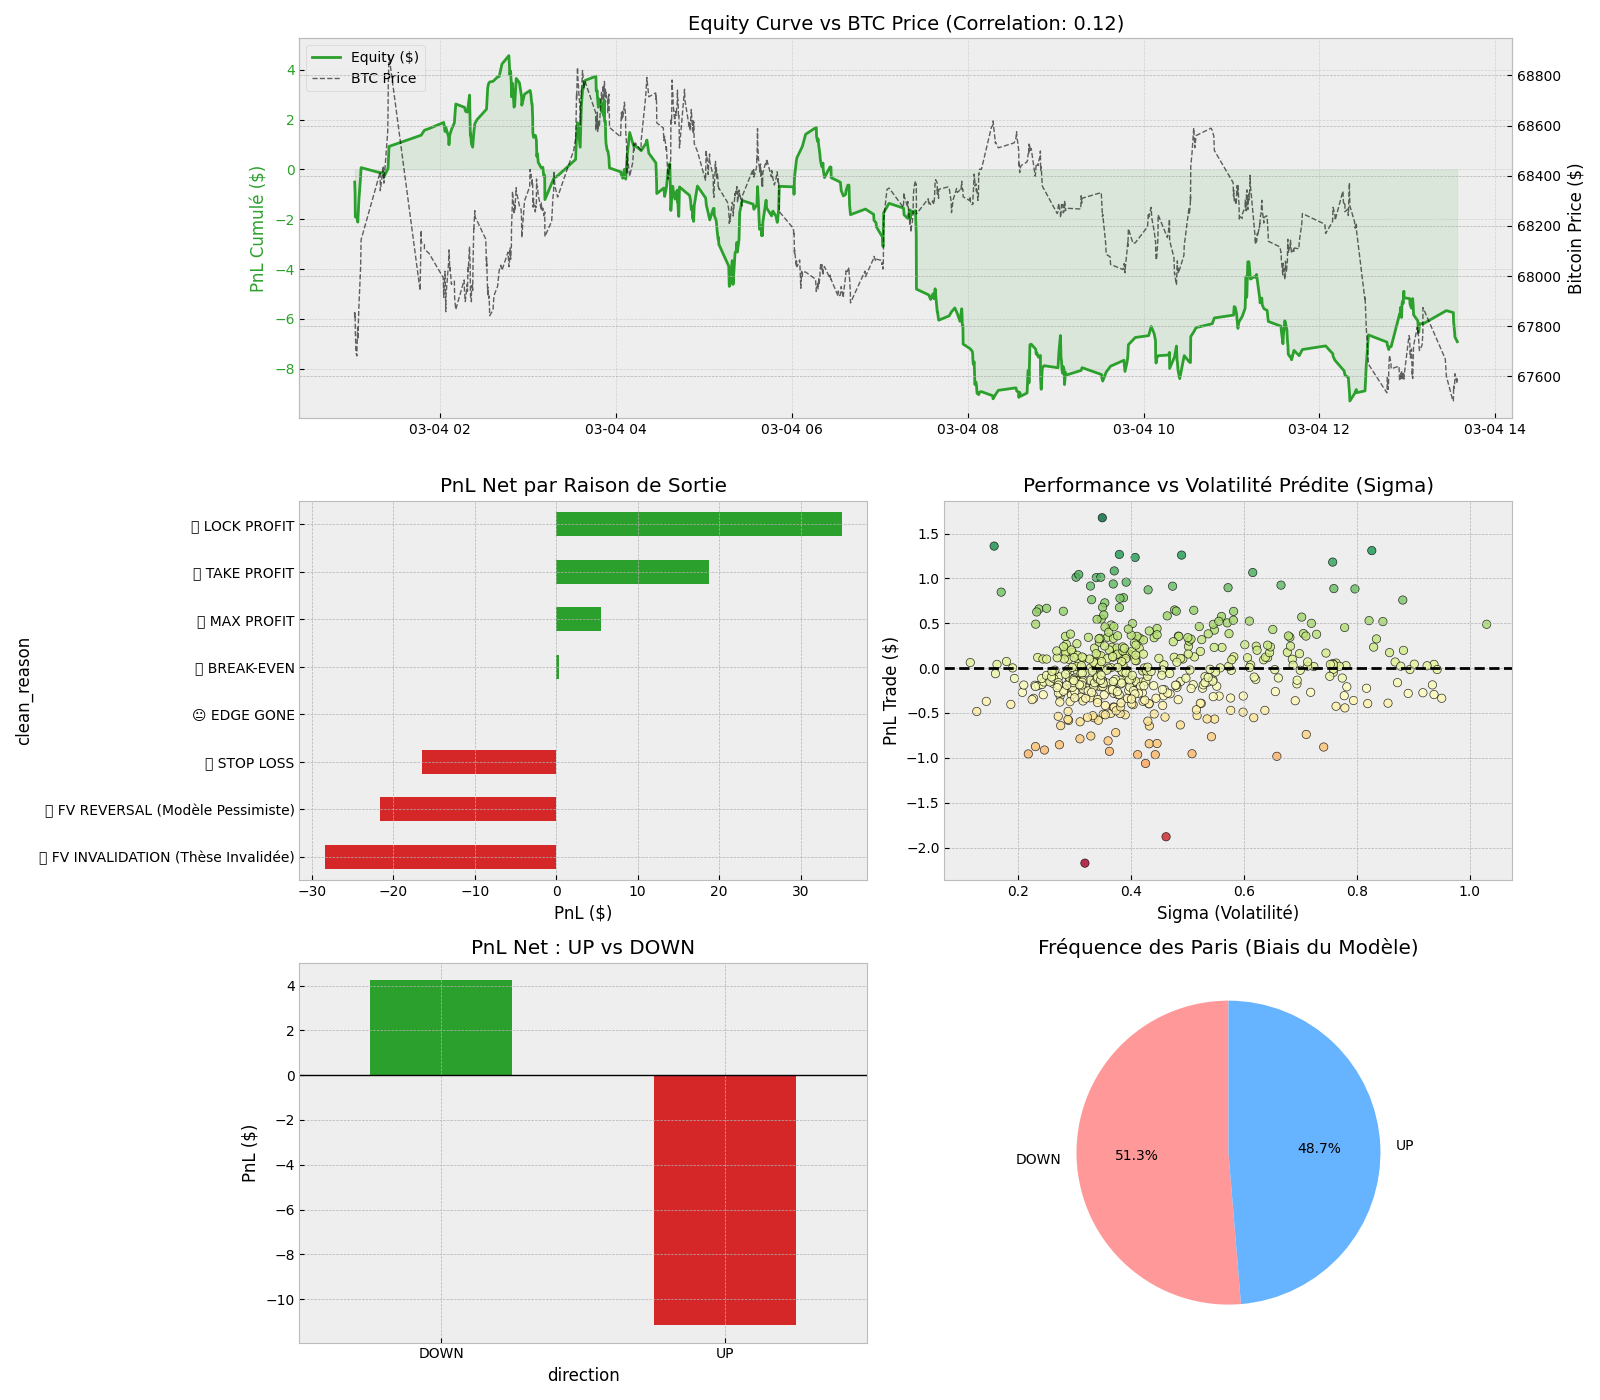
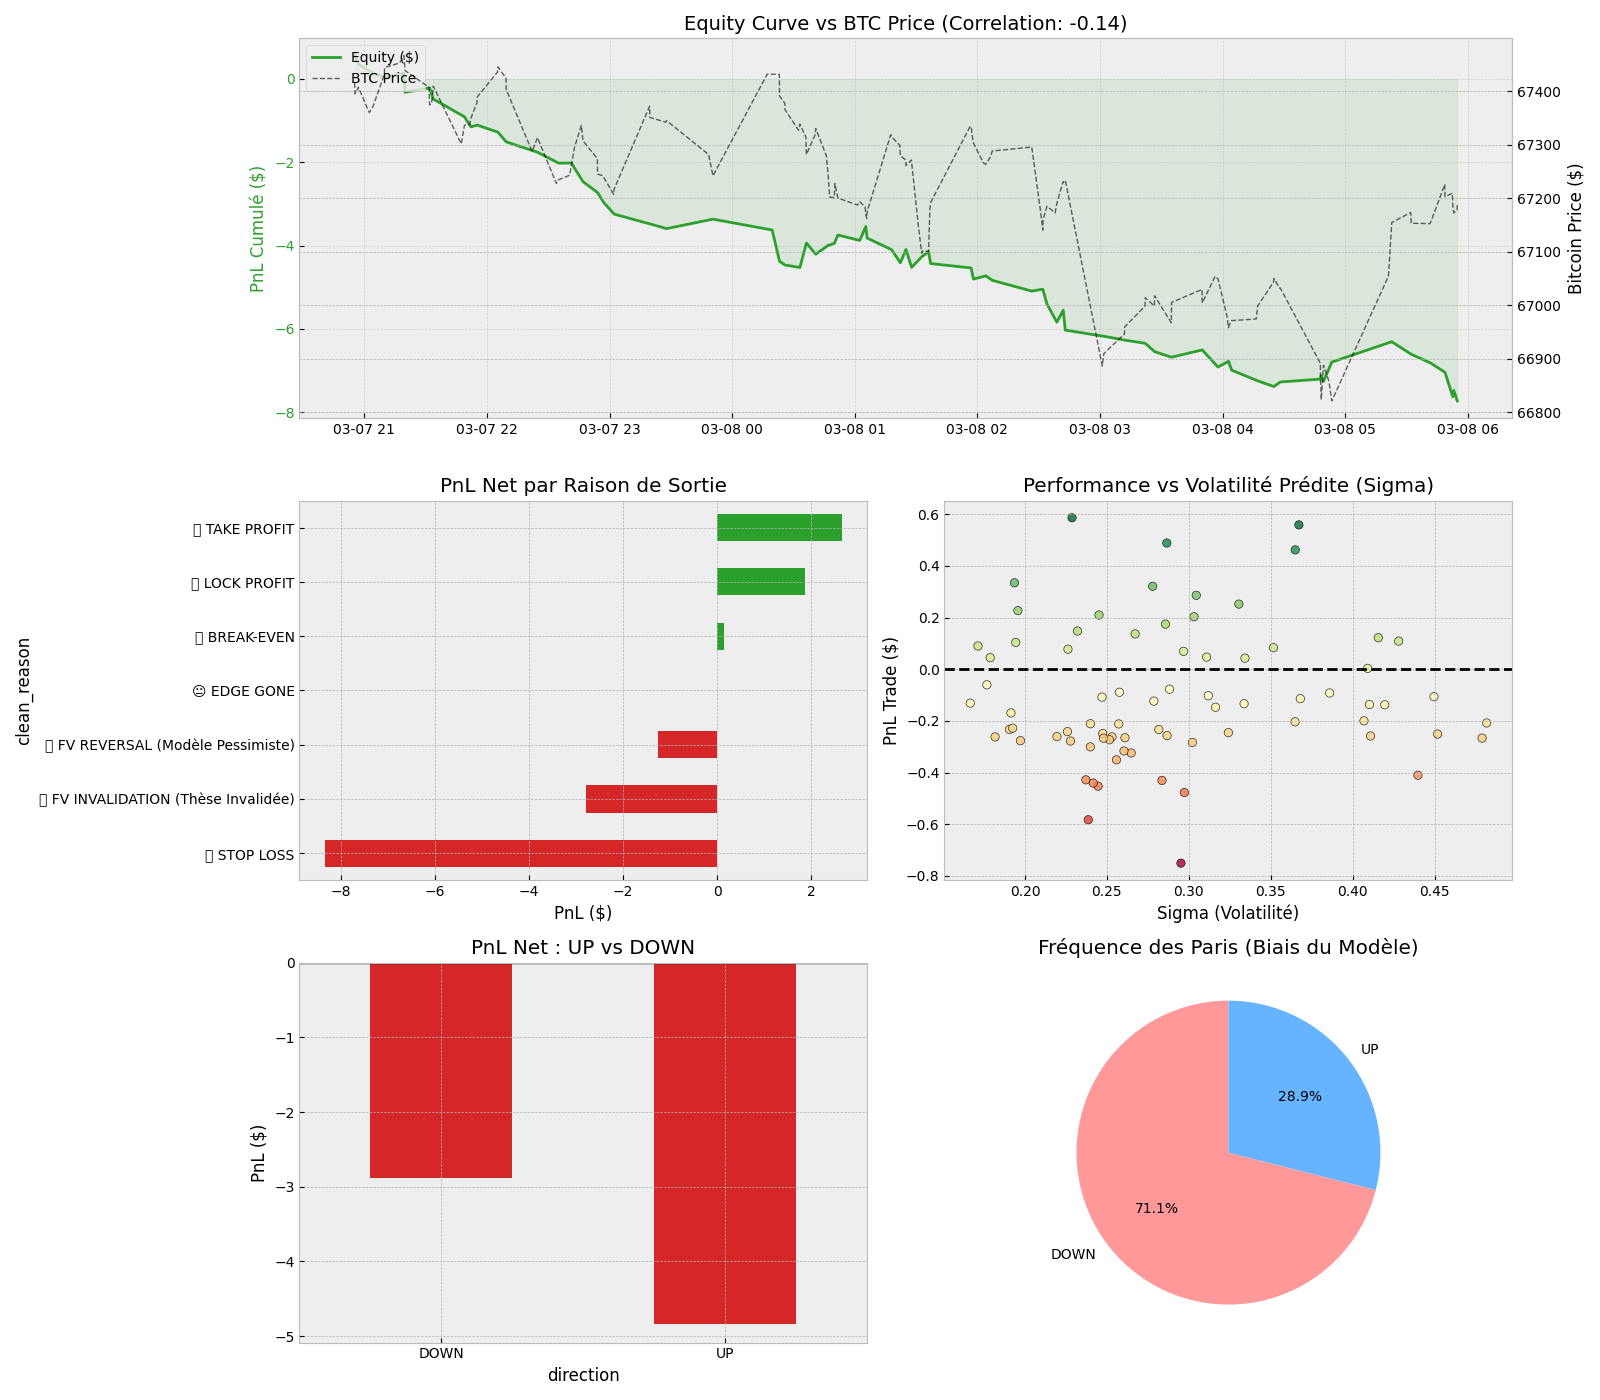
Rewrite README: method, architecture, real results, explored approaches

diff --git a/README.md b/README.md
@@ -1,2 +1,71 @@
 # Polymarket-Misspricing-Bot
-Exploiting missprice of digital option from polymarket using XGBoost to model IV
+
+Exploits mispricing of Polymarket's BTC 15-minute Up/Down binary options: models the
+underlying's implied volatility with a gradient-boosted tree, prices the binary with
+Black-Scholes, and compares the model's fair value against Polymarket's live order
+book. Paper-trading only — no wallets, private keys, or order placement.
+
+## Method
+
+- **Pricing**: `pricing.py` — `BS_Bin` returns the fair Up/Down probability as the
+  discounted risk-neutral `N(d2)` / `1 - N(d2)` of a binary option.
+- **Implied volatility model**: an XGBoost/LightGBM regressor (`LGBM_ShortVol/`)
+  trained on Deribit option data merged with Binance spot features (rolling
+  volatility, momentum, RSI), predicting short-horizon IV rather than reading it
+  directly off Deribit's quoted smile.
+- **Feature contract**: the live feature vector (`feature_engine.py`) must match, in
+  exact column order, the vector the model was trained on
+  (`LGBM_ShortVol/data/data_creator.py`) — a mismatch silently produces garbage
+  predictions, so the two are versioned together.
+
+## Architecture
+
+A single asyncio process built around one central queue:
+
+- **Producers**: Binance 1m klines (rolling features), an hourly Deribit REST call
+  (risk-free rate from futures basis), a Deribit option-book snapshot (liveness gate),
+  and two Polymarket feeds (spot price, CLOB order book for the active 15-minute
+  market).
+- **Consumer**: builds the live feature vector, predicts volatility, prices the
+  binary, and runs entry/exit logic — maker/post-only entries sized with fractional
+  Kelly, and a priority ladder of exits (take-profit, fair-value invalidation,
+  trailing stop, edge compression, break-even, hard stop).
+- Every closed trade is logged to `trade_logs/trade_journal.csv`.
+
+## Results
+
+![Trading report](rapport/rapport_trading_btc.png)
+
+Over one logged paper-trading session (76 trades, 2026-03-07 20:55 UTC to
+2026-03-08 05:54 UTC), the strategy closed net PnL of **-$7.73** at a **32.9%**
+win rate (25 wins / 51 losses). The model's calls were heavily skewed toward DOWN
+(54 DOWN vs. 22 UP, a 71.1%/28.9% split), and DOWN trades held up better than UP
+trades (DOWN: -$2.88 total PnL, 38.9% win rate; UP: -$4.84 total PnL, 18.2% win
+rate). The largest single exit-reason bucket was `STOP LOSS HARD` (29 of 76
+trades), followed by `FV INVALIDATION` (16) and `LOCK PROFIT` (13).
+
+## Approaches explored
+
+- **Neural-network IV model** (`bot_poly_taker_v3/`) — same live architecture, but the
+  IV model is a PyTorch MLP over 24h/4h macro features instead of the XGBoost/1h-15m
+  feature set, requiring a fitted `StandardScaler`.
+- **Foundation-model signal** — a variant using
+  [Kronos](https://github.com/shiyu-coder/Kronos), a pretrained time-series
+  foundation model, to forecast the underlying directly instead of an
+  XGBoost-modeled IV.
+- **Standalone market-making variant** — an inventory-aware (Avellaneda-Stoikov
+  style) maker quoting both sides of the Up/Down book instead of taking mispriced
+  one-sided edges.
+
+## How to run
+
+```bash
+python main.py   # paper-trading only; needs internet for Deribit/Binance/Polymarket WebSockets
+```
+
+## Limitations & next steps
+
+- No real order placement or settlement — entirely simulated.
+- Absolute paths and tuning constants (edge thresholds, Kelly fraction, cooldowns)
+  are inline literals rather than a config file.
+- `GP_Vol/` (a Gaussian-Process volatility approach) is an unimplemented placeholder.
